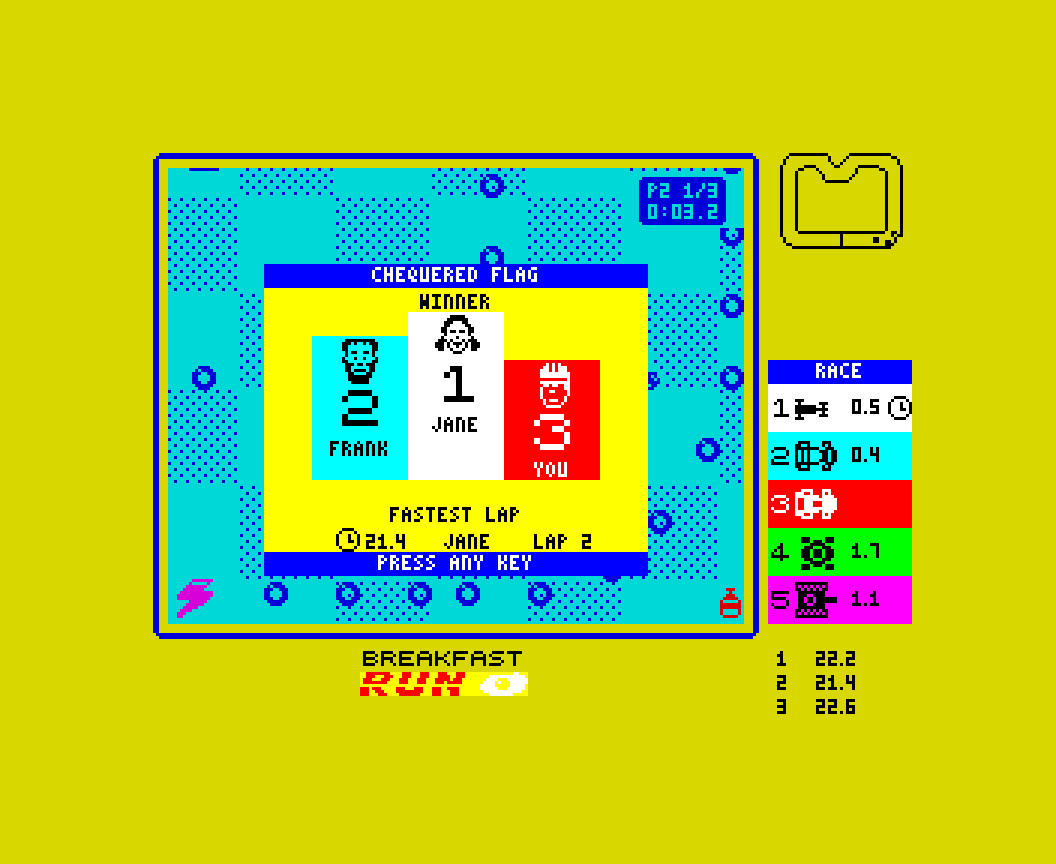
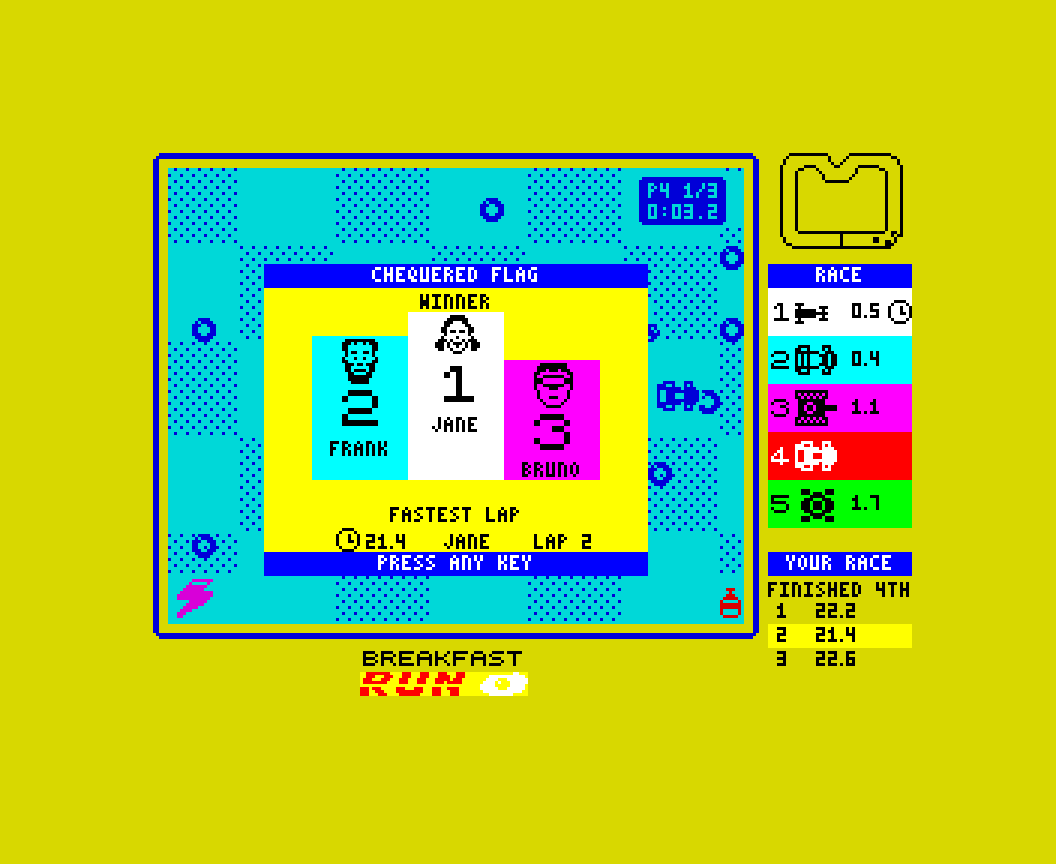
Race panel: the cars under the map, YOUR RACE with lap times filling in under them
Your laps appear as you finish them; at the end your place and your
best lap in yellow. All tests pass. Memory is now full.

Claude-Session: https://claude.ai/code/session_01476U86GiAC8cKs57wAJvc3

diff --git a/tests/finish_test.py b/tests/finish_test.py
@@ -48,8 +48,10 @@ with Racer(headless=True) as sp:
     clock8 = np.array([[sp.read8(SYM['clock8'] + r) >> (7 - c) & 1 for c in range(8)] for r in range(8)], dtype=bool)
     ok((sb[128:136, 64:72] == clock8).all() and sb[130:135, 74:92].any() and sb[130:135, 98:120].any() and sb[130:135, 130:150].any() and not sb[128:136, 152:168].any(),
        'under FASTEST LAP: the clock icon, the time, whose it was, and LAP with its number')
-    ok(all(sb[169 + 8 * i:174 + 8 * i, 211:216].any() and sb[169 + 8 * i:174 + 8 * i, 224:244].any() for i in range(3)) and not sb[168:192, 0:72].any(),
-       'your own three lap times are listed under the panel: the lap, its time')
+    ok(all(sb[153 + 8 * i:158 + 8 * i, 211:216].any() and sb[153 + 8 * i:158 + 8 * i, 224:244].any() for i in range(3)) and not sb[168:192, 0:72].any(),
+       'YOUR RACE, under the cars: your three lap times, the lap and its time (rows 19-21)')
+    ok(sb[146:151, 208:256].sum() > 60 and [A[r, 26] for r in (19, 20, 21)] == [0x30, 0x70, 0x30] and (A[20, 26:32] == 0x70).all() and A[17, 26] == 0x4F,
+       'FINISHED and your place above them; your best lap (the second, 21.4 s) picked out in bright yellow')
     shot(sp, 'podium.png')
     r0 = g(sp, 'renders'); sp.run(duration=1.0, fast_forward=True)
     ok(g(sp, 'renders') == r0 and attr(sp, 8, 10) != 0x7A, 'the race stays stopped under it, until a key')

diff --git a/tests/drive_test.py b/tests/drive_test.py
@@ -199,7 +199,8 @@ with Racer(headless=True) as sp:
     sb = screen_bits(sp)
     check((sb[168:184, 72:128] == np.array(logo)).all() and not sb[184:192].any() and not sb[168:192, 0:72].any() and not sb[168:192, 128:256].any(),
           'the BREAKFAST RUN logo is under the window, centred on it (columns 9-15, rows 21-22); nothing else down there')
-    check(sb[3:35, 208:256].any() and not sb[0:3, 208:256].any() and not sb[40:72, 208:256].any(), 'the mini-map is at the top right, in the panel\'s six columns')
+    check(sb[3:35, 208:256].any() and not sb[0:3, 208:256].any() and not sb[35:40, 208:256].any() and sp.read8(0x5800 + 5 * 32 + 26) == 0x4F and sp.read8(0x5800 + 17 * 32 + 26) == 0x4F and sb[137:142, 208:256].any(),
+          'the mini-map is at the top right; RACE and the five cars straight under it (rows 5-15); YOUR RACE under them (row 17)')
     msg = screen_text(sp, 22, 1, 8) + '/' + screen_text(sp, 23, 1, 8)
     check(MR != 1 or screen_text(sp, 0, 1, 22) == "BREAKFAST AT TIFFANY'S", 'the track is named along the top: %r' % screen_text(sp, 0, 1, 22))
     attr = lambda r, c: sp.read8(0x5800 + 32 * r + c)

diff --git a/CONTINUE.md b/CONTINUE.md
@@ -1,6 +1,6 @@
 # CONTINUE - Breakfast Run
 
-**Stamped:** 2026-11-15 09:06 SAST · machine: Claude cloud container · branch: claude/breakfast-run-layout-ik0vpe (not yet merged to main) · commit: see `git log -1`
+**Stamped:** 2026-11-15 09:20 SAST · machine: Claude cloud container · branch: claude/breakfast-run-layout-ik0vpe (not yet merged to main) · commit: see `git log -1`
 **Lifecycle:** Active
 
 **Latest (14 Nov 2026, 22:16 SAST) - read this before the older status below:** the window is 192 x 152
@@ -13,6 +13,8 @@ The VIEW LEADS THE CAR: up to 20 px ahead across, 16 up/down, 2 px a picture (ha
 LEAD_X / LEAD_Y / LEAD_STEP to tune). In-race music is on the AY SOUND CHIP (OPT_AY, tools/make_music_ay.py; needs a 128K or
 the 48K with the AY option on - a plain 48K is silent); coloured objects OFF (OBJECTS=1; too slow). Speed alone: 40 pictures at 3 TV
 frames / 225 at 4 / 5 at 5. Speed test 15 Nov 06:07: alone now 91 pictures at 3 frames / 193 / 3; the pack is ~30,000 T a picture over the faster rate (see the log's last entry for what was tried and what is left). Detail: PROJECT-LOG.md, end.
+
+**Race panel (15 Nov 09:20):** map, then RACE and the five cars (rows 5-15), the lap record (16), YOUR RACE (17) with your place at the end (18) and your lap times as you do them (19-21), the best in yellow. **MEMORY IS FULL: about 40 bytes free in each of the two main areas.**
 
 **Title (15 Nov 09:06):** green logo band, the egg, RUN cut in yellow and red with speed lines (t_run), five cars lapping the check border (tc_step). **Podium:** card rows 5-17, fastest lap with clock and lap number, your own lap times under the panel. **Memory is nearly full everywhere** (see the log's last entry) - anything new needs room found first. Open mock-ups: sad face when off the podium (sadface_options.png), frame options, race-screen layouts.
 

diff --git a/PROJECT-LOG.md b/PROJECT-LOG.md
@@ -1900,3 +1900,16 @@ Authoritative log for this workstream (house rule 5.2). Newest at the bottom. Ti
 - tools/make_panel_mock.py -> docs/design/panel_options.png: NOW + A (red bar YOU 4TH, laps),
   B (your face - unhappy off the podium - a large place, laps), C (YOUR RACE block, best lap
   picked out), D (the block during the race). RACE moves to row 5, the cars rows 6-15. Nothing built.
+
+## 2026-11-15 09:20 SAST - the panel rearranged: cars under the map, YOUR RACE under the cars
+
+- Grant: "I like C, so fill it in as the game commences, showing lap times".
+- BUILT: TOWER_Y 6 (RACE row 5, the cars rows 6-15, the lap record row 16); hud_init draws YOUR
+  RACE (row 17, white on blue) and clears rows 18-21; yl_note shows each of your laps as you
+  finish it (rows 19-21: the lap, its time); at the race's end the podium adds FINISHED and your
+  place (row 18) and yl_best turns your best lap's row bright yellow.
+- NOT SEEN in a live race by eye: the laps appearing mid-race (the path runs in drive_test's
+  race without fault; finish_test checks the end state from poked lap times).
+- MEMORY: code_end 0xBFD8 - 40 bytes free in the main area; the room under 0x8000 about 40; the
+  gap before sq4 about 20. The game is full: the next feature needs something taken out.
+- All eleven test suites PASS. Speed alone 74 / 202 / 4. docs/design/podium_built.png.
